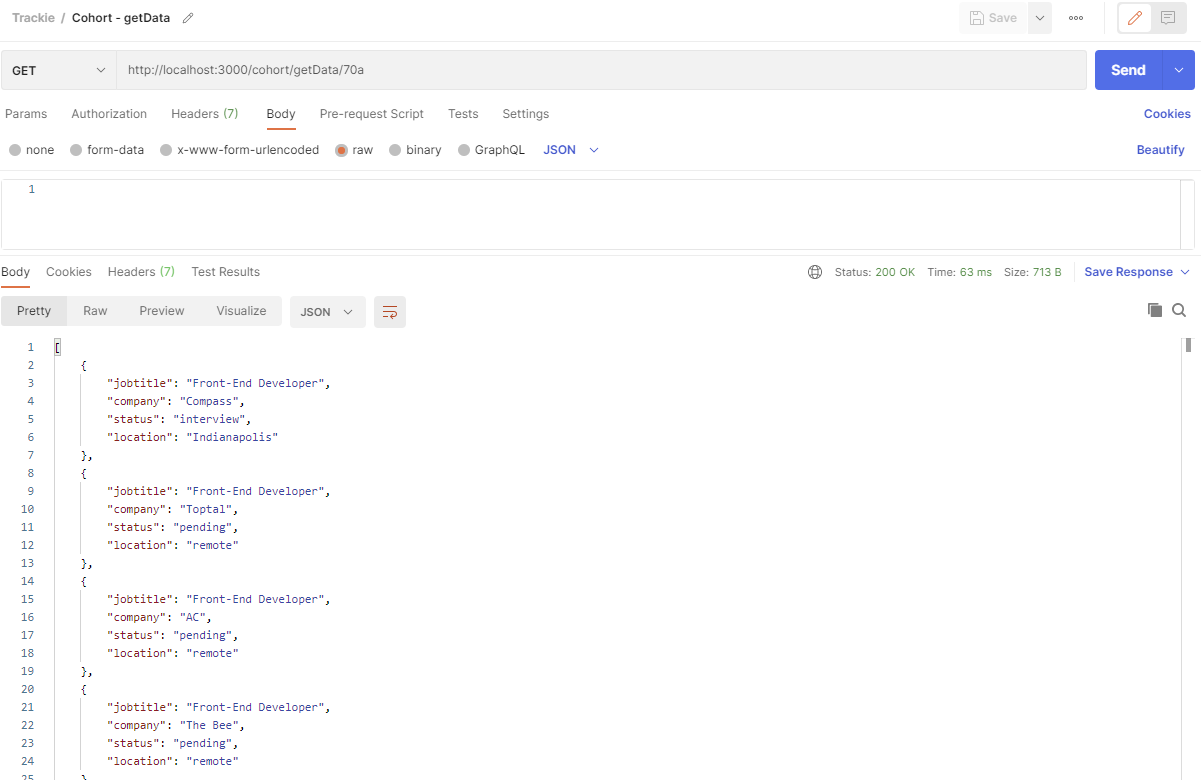
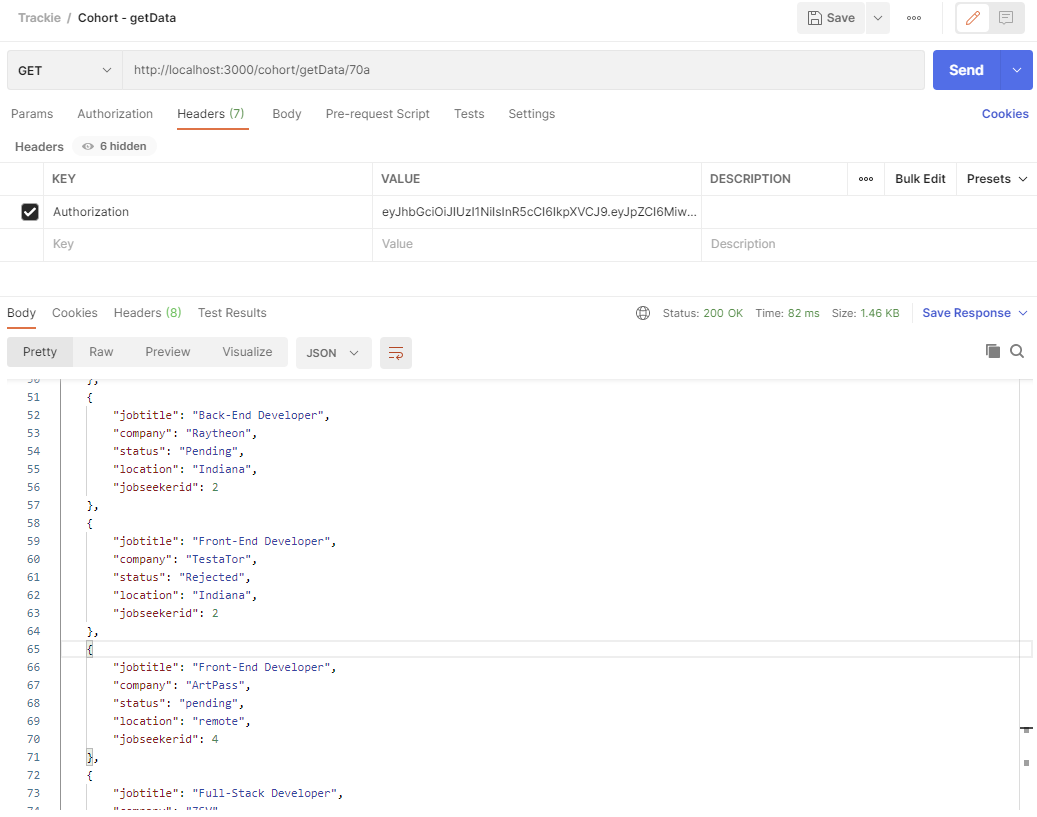
added more endpoints

diff --git a/controllers/schoolcontroller.js b/controllers/schoolcontroller.js
@@ -17,6 +17,10 @@ http://localhost:3000/school/create         -  POST     > Sign up a new school
 http://localhost:3000/school/login          -  POST     > Log into an existing school account
 http://localhost:3000/school/countAll       -  GET      > nb of school accounts
 http://localhost:3000/school/delete         -  DELETE   > delete school
+http://localhost:3000/school/changeEmail    -  PATCH    > update email
+http://localhost:3000/school/changePwd      -  PATCH    > update password
+http://localhost:3000/school/comparePwd     -  POST     > checked password in file and password entered by school to verify identity.
+http://localhost:3000/school/getProfile     -  GET      > view profile
 
 
 */
@@ -99,5 +103,76 @@ router.post("/create", function(req, res){
   });
 
 
+ /*******************************
+ * SCHOOL - Change email  *
+ ******************************/
+ router.patch('/changeEmail', validateSchoolSession, (req,res) => {
+    const updateProfile = {
+        email: req.body.school.email
+  };
+  
+  const query = { where: { id: req.school.id} };
+  
+  School.update(updateProfile, query)
+  .then((profile) => res.status(200).json({
+      message: profile > 0? "Email updated!" : "Email could not be updated."})
+  )
+  .catch((err) => res.status(500).json({error: err}));
+  })
+
+
+ /********************************
+ * SCHOOL - modify password  *
+ *******************************/
+ router.patch('/changePwd', validateSchoolSession, (req,res) => {
+    const updateProfile = {
+          password: bcrypt.hashSync(req.body.school.password, 13)
+    };
+    
+    const query = { where: { id: req.school.id} };
+    
+    School.update(updateProfile, query)
+    .then((profile) => res.status(200).json({
+        message: profile > 0? "Password updated!" : "Password could not be updated."})
+    )
+    .catch((err) => res.status(500).json({error: err}));
+    })
+
+ /********************************
+ * SCHOOL - confirm password    *
+ *******************************/
+ router.post('/comparePwd', validateSchoolSession, (req,res) => {
+    School.findOne({
+        where: { id: req.school.id }
+    })
+    .then((school) => {
+        if(school) {
+            bcrypt.compare(req.body.school.password, school.password, function(err, matches) {
+                if(matches){
+                    res.status(200).json({
+                        message: "Passwords matched"
+                    })
+                } else {
+                    res.status(502).send({error: "Wrong password"});
+                }
+        });
+        } else {
+            res.status(500).json({ error: "School does not exist" })
+        }
+    })
+    .catch((err) => res.status(500).json({ error: err }));
+})
+
+
+/****************************
+ * SCHOOL - GET Profile  *
+ ***************************/
+ router.get('/getProfile', validateSchoolSession, (req,res) => {
+    School.findOne({
+        where: { id: req.school.id }
+    })
+    .then(profile => res.status(200).json(profile))
+    .catch(err => res.status(500).json({error: err}))
+})
 
 module.exports = router;

diff --git a/controllers/jobseekercontroller.js b/controllers/jobseekercontroller.js
@@ -19,6 +19,7 @@ http://localhost:3000/jobseeker/addCode         -  PATCH > add an invitation cod
 http://localhost:3000/jobseeker/changeSharing   -  PATCH > option to share or not job app information
 http://localhost:3000/jobseeker/changeEmail     -  PATCH > update email
 http://localhost:3000/jobseeker/changePwd       -  PATCH > update password
+http://localhost:3000/jobseeker/comparePwd      -  POST  > checked password in file and password entered by user to verify identity.
 http://localhost:3000/jobseeker/countAll        -  GET   > nb of jobseekers accounts
 http://localhost:3000/jobseeker/delete          -  DELETE   > delete job seeker account
 

diff --git a/controllers/cohortcontroller.js b/controllers/cohortcontroller.js
@@ -114,7 +114,7 @@ router.get('/getData/:cohort', validateSchoolSession, function(req,res) {
     .then(cohorts => {
         sequelize
         .query(
-          `SELECT jobapps.jobtitle, jobapps.company, jobapps.status, jobapps.location 
+          `SELECT jobapps.jobtitle, jobapps.company, jobapps.status, jobapps.location, jobapps.jobseekerid 
           FROM jobapps 
           INNER JOIN jobseekers
               on (jobapps.jobseekerid = jobseekers.id) 
